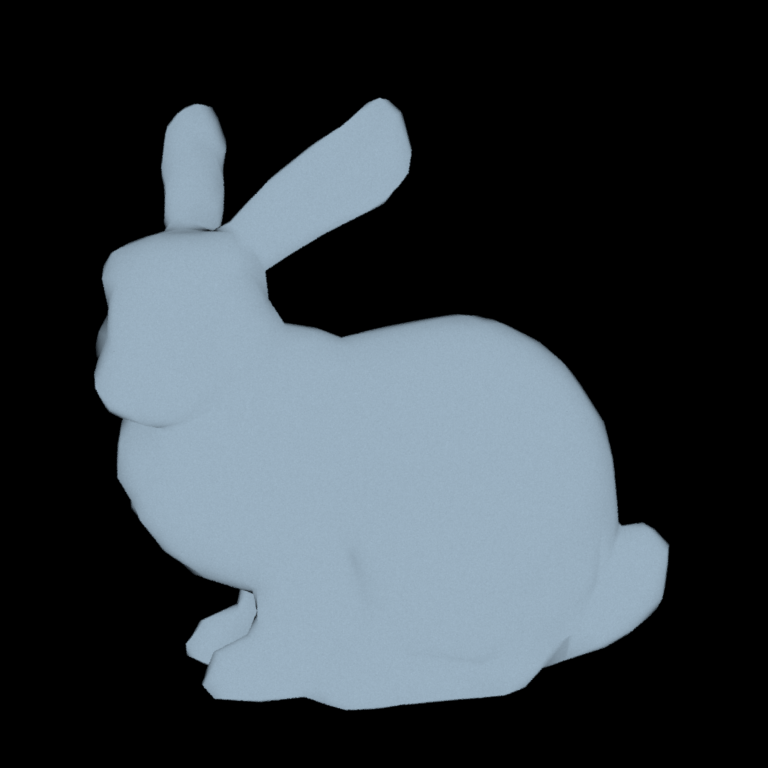
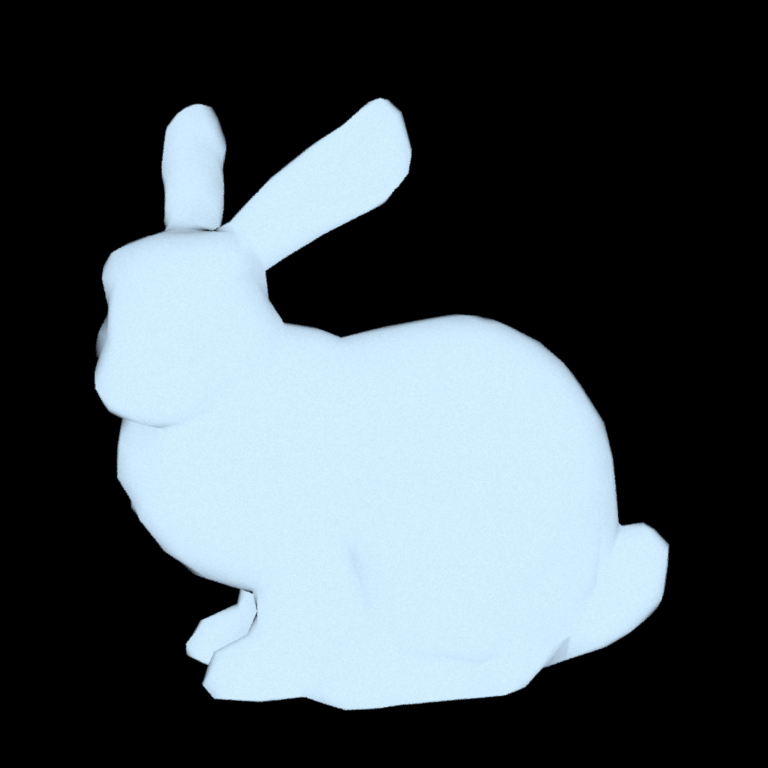
Fucking pdfs

diff --git a/src/pathtracing.cpp b/src/pathtracing.cpp
@@ -153,7 +153,7 @@ std::vector<Photon> Pth::generateSubsurfaceSamples(const Scene *scene, Sampler *
     {
         u_int32_t nTriangles = mesh->nTriangles();
 
-        for (u_int32_t i = 0; i < 10*nTriangles; i++)
+        for (u_int32_t i = 0; i < nTriangles / 100; i++)
         {
             float pdf;
             Point3f p; Normal3f n; Point2f uv;

diff --git a/src/whitted.cpp b/src/whitted.cpp
@@ -78,7 +78,7 @@ public:
                 contributions += radiance;
             }
 
-            contributions = contributions / N_SAMPLES;
+            contributions = contributions / (N_SAMPLES * photonPdf);
             
           
 
